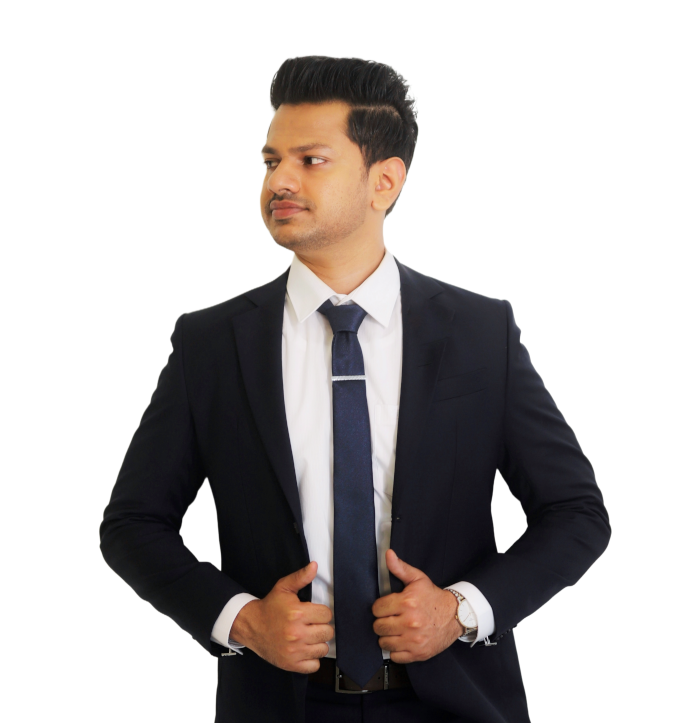
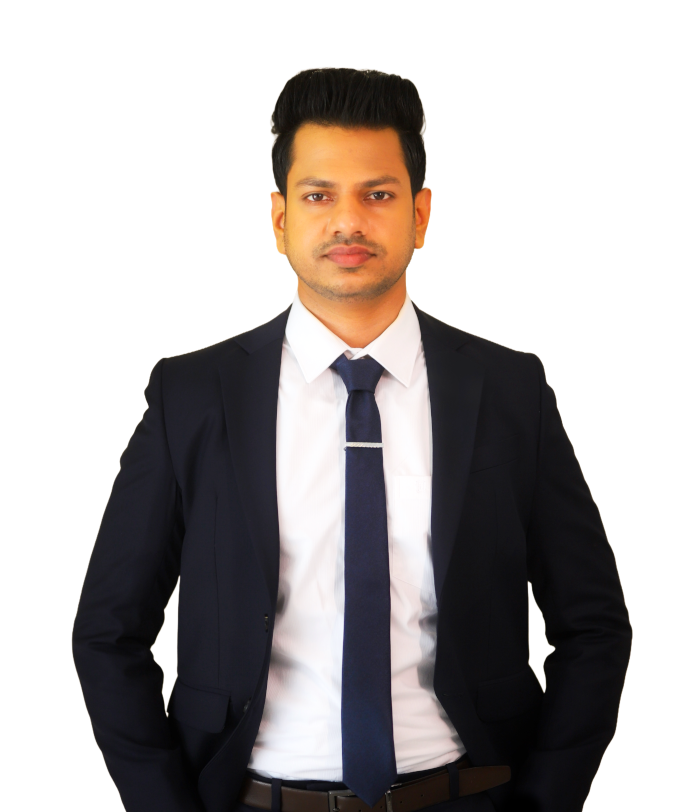
fixes

Changed region(s): [[0.0904, 0.0609, 0.9039, 1.0], [0.7532, 0.639, 0.7834, 0.6694]]

diff --git a/app/work/page.jsx b/app/work/page.jsx
@@ -37,10 +37,17 @@ const projects = [
   {
     num: "02",
     category: "frontend",
-    title: "Botcircuits",
+    title: "BotCircuits AI Platform",
     description:
-      "Botcircuits is a No-Code Conversational AI platform that allows to create intelligent chatbots that answer questions by calling Actions - Functions, APIs, Document Search, and more.",
-    stack: [{ name: "React.js" }, { name: "Tailwind CSS" }, { name: "Redux" }],
+      "Contributed to a no-code conversational AI platform for building agents that answer questions, trigger workflows and connect with APIs, functions and document search.",
+    stack: [
+      { name: "React.js" },
+      { name: "Tailwind CSS" },
+      { name: "Python" },
+      { name: "AWS Serverless" },
+      { name: "ECS" },
+      { name: "LLM APIs" },
+    ],
     image: "/assets/work/botcircuits.png",
     live: "https://www.botcircuits.com/",
     github: "https://www.botcircuits.com/",
@@ -121,10 +128,10 @@ const Work = () => {
                 {project.title}
               </h2>
               <p className="text-white/60">{project.description}</p>
-              <ul className="flex gap-4">
+              <ul className="flex flex-wrap gap-x-4 gap-y-2">
                 {project.stack.map((item, index) => {
                   return (
-                    <li key={index} className="text-xl text-accent">
+                    <li key={index} className="text-base sm:text-xl text-accent">
                       {item.name}
                       {index !== project.stack.length - 1 && ","}
                     </li>

diff --git a/components/Photo.jsx b/components/Photo.jsx
@@ -13,21 +13,21 @@ const Photo = () => {
           transition: { delay: 2, duration: 0.4, ease: "easeInOut" },
         }}
       >
-        <motion.div className="w-[298px] h-[298px] xl:w-[498px] xl:h-[498px] mix-blend-lighten absolute">
+        <motion.div className="absolute left-1/2 top-1/2 h-[276px] w-[276px] -translate-x-1/2 -translate-y-[54%] mix-blend-lighten [filter:drop-shadow(0_18px_28px_rgba(0,0,0,0.35))] xl:h-[462px] xl:w-[462px]">
           <Image
             src="/assets/photo.png"
             priority
             quality={100}
             fill
             alt=""
-            className="object-contain"
+            className="object-contain [filter:contrast(1.03)_saturate(1.02)]"
           />
         </motion.div>
         <motion.svg
-          className="w-[300px] xl:w-[506px] h-[300px] xl:j-[506px]"
+          className="h-[300px] w-[300px] xl:h-[506px] xl:w-[506px]"
           fill="transparent"
           viewBox="0 0 506 506"
-          xmlns="http://www.w3.orag/2000/svg"
+          xmlns="http://www.w3.org/2000/svg"
         >
           <motion.circle
             cx="253"

diff --git a/app/page.jsx b/app/page.jsx
@@ -15,7 +15,7 @@ const Home = () => {
           <div className="text-center xl:text-left order-2 xl:order-none">
             <span className="text-xl">Founder, Product & Technical Lead</span>
             <h1 className="h1 mb-6">
-              Hello I'm <br />{" "}
+              Hello, I'm <br />{" "}
               <span className="text-accent">Tharindu Bandara</span>{" "}
             </h1>
             <p className="max-w-[620px] mb-9 text-white/80">
